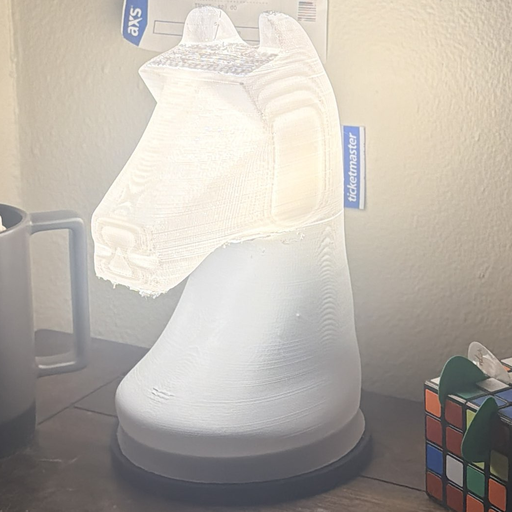
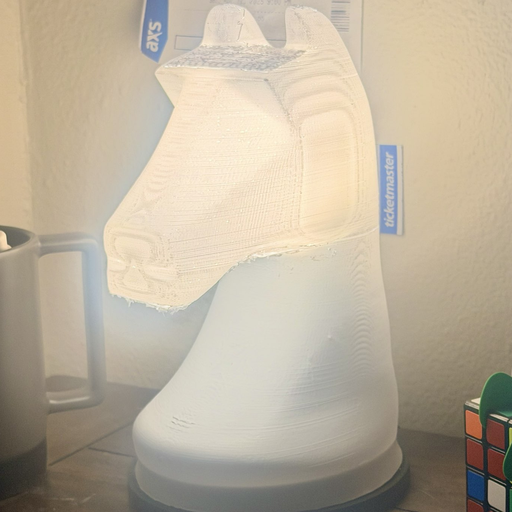
Knight Lamp: new photo, 60% AI usage, source attribution
Claude-Session: https://claude.ai/code/session_01WFAZMwEpFzecB3H4TreZaL

diff --git a/app/data/projects.ts b/app/data/projects.ts
@@ -33,16 +33,16 @@ export const projects: Project[] = [
     summary: "A hollow, 3D-printed chess knight that glows from a smart bulb inside its head.",
     description: `A chess knight that works as a lamp. The shell is hollow, printed in white PLA with thin walls so the light comes through the plastic, and a Govee smart bulb sits inside the head. The shell clicks onto a separate base that holds the bulb socket, so the two print apart and the bulb can be swapped without cutting anything open.
 
-I started from a knight model I already had and rebuilt it for lighting: smoothed it, hollowed it to a roughly 0.9 mm wall, and designed the base around the bulb and socket. The first print came out stringy and rough, so this is the second pass, with a finer hollowing step and a re-sliced profile. It glows the way I wanted. The head is still visibly rougher than the body, so there's another revision coming.`,
+I started from the knight in Stanleyerland's "World Chess Championship - Chess Pieces" on Thingiverse (CC BY) and rebuilt it for lighting: smoothed it, hollowed it to a roughly 0.9 mm wall, and designed the base around the bulb and socket. The first print came out stringy and rough, so this is the second pass, with a finer hollowing step and a re-sliced profile. It glows the way I wanted. The head is still visibly rougher than the body, so there's another revision coming.`,
     date: "November 23, 2026",
     skills: ["3D Printing", "CAD", "Python", "trimesh", "Slicing", "Lighting"],
     importantSkills: ["3D Printing", "CAD", "Python"],
     media: "photo",
-    aiUsage: 80,
+    aiUsage: 60,
     completion: 80,
     thumbnailUrl: "/thumbnails/knight-lamp.png",
     imageUrl: "/Previews/KnightLamp.png",
-    imageAspect: 780 / 1120,
+    imageAspect: 960 / 1480,
     wip: true,
     ongoing: false,
     terminated: false,
